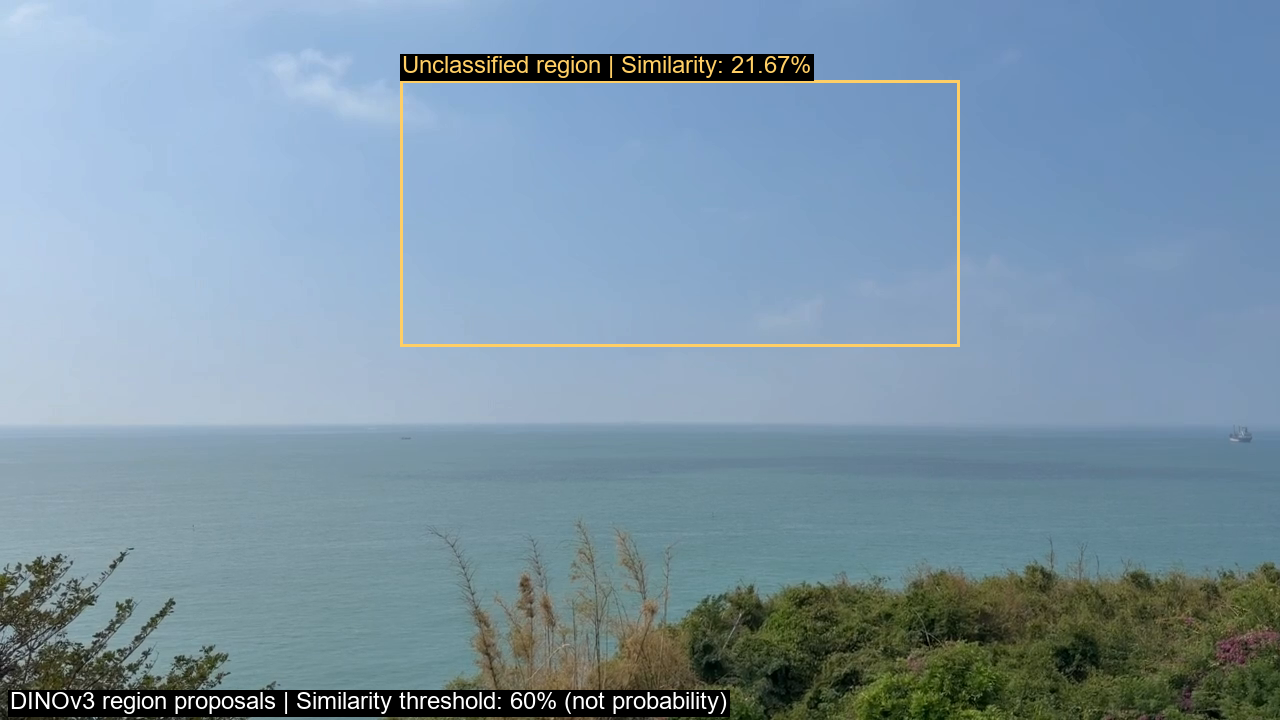
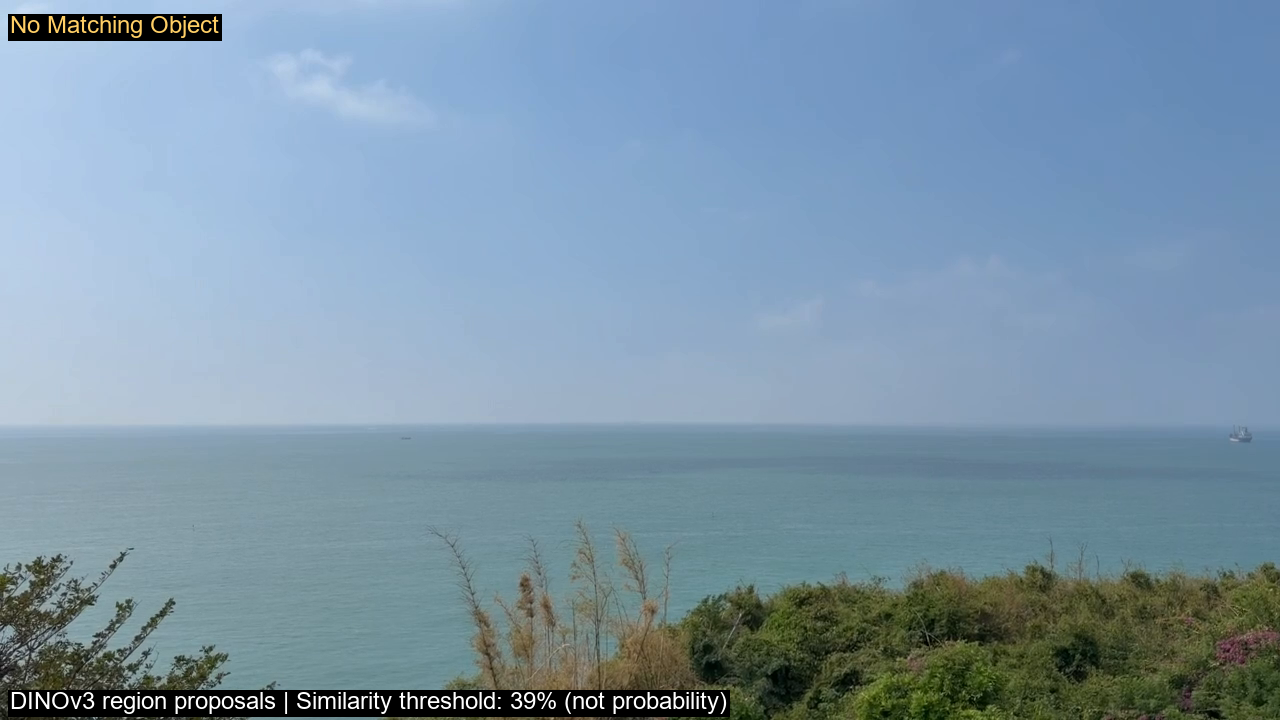
Publish 20-frame DINOv3 similarity review

Changed region(s): [[0.3125, 0.0611, 0.75, 0.1222], [0.3125, 0.4583, 0.75, 0.4889], [0.0, 0.0, 0.1875, 0.0611]]

diff --git a/index.html b/index.html
@@ -9,89 +9,89 @@ body{margin:0;background:var(--bg);color:var(--ink);font:15px/1.6 system-ui,"Mic
 #count{margin-left:auto;color:var(--muted)}.grid{display:grid;grid-template-columns:repeat(2,minmax(0,1fr));gap:22px}article{background:var(--panel);border:1px solid var(--line);border-radius:12px;overflow:hidden}.photo{display:block;background:#080f18}.photo img{display:block;width:100%;height:auto}.body{padding:16px 18px}.row{display:flex;justify-content:space-between;align-items:center;gap:12px;flex-wrap:wrap}h2{font-size:15px;margin:0;font-weight:600}.badge{font-size:11px;color:#eed39a;background:#463b25;padding:3px 8px;border-radius:5px}.badge.accepted{color:#9de4bd;background:#234535}.score{font-size:30px;font-variant-numeric:tabular-nums;color:var(--accent)}small{font-size:15px;margin-left:3px}.caption{font-size:12px;color:var(--muted);margin-left:12px}a{color:#91d0e1}.open{font-size:13px}.details{font-size:12px;color:var(--muted);margin:6px 0 0}footer{color:var(--muted);font-size:12px;margin-top:28px}[hidden]{display:none!important}#empty{padding:40px;text-align:center;color:var(--muted)}
 @media(max-width:760px){main{padding:22px 14px}.grid{grid-template-columns:1fr}.stat{min-width:100px;padding:10px 14px}.toolbar label{flex:1}input{min-width:0;width:100%}#count{width:100%;margin:0}}
 </style></head><body><main><header><div class="eyebrow">DINOv3 / IMAGE REVIEW</div><h1>船舶影像相似度檢視</h1>
-<p>每張影格僅保留分數最高的一個自動區域候選框。分數為實際模型計算的區域餘弦相似度 × 100，並非辨識機率；候選框也可能包含背景。</p></header>
-<section class="stats" aria-label="結果摘要"><div class="stat"><strong>20</strong><span>隨機選取影格</span></div><div class="stat"><strong>60%</strong><span>相似度門檻（含）</span></div><div class="stat"><strong>0 / 20</strong><span>達到目標船候選門檻</span></div></section>
+<p>每張影格只評估最高分候選：達到門檻才顯示框，低於門檻顯示 No Matching Object。下方保留最高候選的實際分數供檢視。相似度並非辨識機率；自動候選框也可能包含背景。</p></header>
+<section class="stats" aria-label="結果摘要"><div class="stat"><strong>20</strong><span>隨機選取影格</span></div><div class="stat"><strong>39%</strong><span>相似度門檻（含）</span></div><div class="stat"><strong>9 / 20</strong><span>達到目標船候選門檻</span></div></section>
 <div class="toolbar"><label>搜尋檔名<input id="search" type="search" placeholder="例如 frame_000445"></label><label>排序<select id="sort"><option value="score">相似度：高 → 低</option><option value="name">檔名順序</option><option value="order">原始抽樣順序</option></select></label><label>顯示<select id="filter"><option value="all">全部影格</option><option value="true">達到門檻</option><option value="false">低於門檻／未偵測</option></select></label><span id="count" role="status" aria-live="polite"></span></div>
-<section class="grid" id="gallery" aria-label="標註影格"><article data-name="frame_000445.png" data-score="0.5185669660568237" data-order="0" data-accepted="false">
-<a class="photo" href="frame_000445.png" target="_blank" rel="noopener" aria-label="放大 frame_000445.png"><img src="frame_000445.png" alt="frame_000445.png：低於門檻 · 未分類區域，相似度 51.86%" loading="lazy" width="1280" height="720"></a>
-<div class="body"><div class="row"><h2>frame_000445.png</h2><span class="badge ">低於門檻 · 未分類區域</span></div>
-<div class="row"><div><span class="score">51.86<small>%</small></span><span class="caption">Similarity</span></div><a class="open" href="frame_000445.png" target="_blank" rel="noopener">開啟原尺寸 ↗</a></div>
-<p class="details">1280 × 720 px · 框座標 [453, 320, 1014, 507]</p></div></article><article data-name="frame_000578.png" data-score="0.48039111495018005" data-order="1" data-accepted="false">
-<a class="photo" href="frame_000578.png" target="_blank" rel="noopener" aria-label="放大 frame_000578.png"><img src="frame_000578.png" alt="frame_000578.png：低於門檻 · 未分類區域，相似度 48.04%" loading="lazy" width="1280" height="720"></a>
-<div class="body"><div class="row"><h2>frame_000578.png</h2><span class="badge ">低於門檻 · 未分類區域</span></div>
-<div class="row"><div><span class="score">48.04<small>%</small></span><span class="caption">Similarity</span></div><a class="open" href="frame_000578.png" target="_blank" rel="noopener">開啟原尺寸 ↗</a></div>
+<section class="grid" id="gallery" aria-label="標註影格"><article data-name="frame_000445.png" data-score="0.5185669660568237" data-order="0" data-accepted="true">
+<a class="photo" href="frame_000445.png?v=4f325bb8f860" target="_blank" rel="noopener" aria-label="放大 frame_000445.png"><img src="frame_000445.png?v=4f325bb8f860" alt="frame_000445.png：目標船候選，相似度 51.86%" loading="lazy" width="1280" height="720"></a>
+<div class="body"><div class="row"><h2>frame_000445.png</h2><span class="badge accepted">目標船候選</span></div>
+<div class="row"><div><span class="score">51.86<small>%</small></span><span class="caption">最高候選相似度</span></div><a class="open" href="frame_000445.png?v=4f325bb8f860" target="_blank" rel="noopener">開啟原尺寸 ↗</a></div>
+<p class="details">1280 × 720 px · 框座標 [453, 320, 1014, 507]</p></div></article><article data-name="frame_000578.png" data-score="0.48039111495018005" data-order="1" data-accepted="true">
+<a class="photo" href="frame_000578.png?v=b63f1000d5e1" target="_blank" rel="noopener" aria-label="放大 frame_000578.png"><img src="frame_000578.png?v=b63f1000d5e1" alt="frame_000578.png：目標船候選，相似度 48.04%" loading="lazy" width="1280" height="720"></a>
+<div class="body"><div class="row"><h2>frame_000578.png</h2><span class="badge accepted">目標船候選</span></div>
+<div class="row"><div><span class="score">48.04<small>%</small></span><span class="caption">最高候選相似度</span></div><a class="open" href="frame_000578.png?v=b63f1000d5e1" target="_blank" rel="noopener">開啟原尺寸 ↗</a></div>
 <p class="details">1280 × 720 px · 框座標 [240, 373, 774, 534]</p></div></article><article data-name="frame_000280.png" data-score="0.2985789179801941" data-order="2" data-accepted="false">
-<a class="photo" href="frame_000280.png" target="_blank" rel="noopener" aria-label="放大 frame_000280.png"><img src="frame_000280.png" alt="frame_000280.png：低於門檻 · 未分類區域，相似度 29.86%" loading="lazy" width="1280" height="720"></a>
-<div class="body"><div class="row"><h2>frame_000280.png</h2><span class="badge ">低於門檻 · 未分類區域</span></div>
-<div class="row"><div><span class="score">29.86<small>%</small></span><span class="caption">Similarity</span></div><a class="open" href="frame_000280.png" target="_blank" rel="noopener">開啟原尺寸 ↗</a></div>
-<p class="details">1280 × 720 px · 框座標 [320, 186, 987, 454]</p></div></article><article data-name="frame_000362.png" data-score="0.34688276052474976" data-order="3" data-accepted="false">
-<a class="photo" href="frame_000362.png" target="_blank" rel="noopener" aria-label="放大 frame_000362.png"><img src="frame_000362.png" alt="frame_000362.png：低於門檻 · 未分類區域，相似度 34.69%" loading="lazy" width="1280" height="720"></a>
-<div class="body"><div class="row"><h2>frame_000362.png</h2><span class="badge ">低於門檻 · 未分類區域</span></div>
-<div class="row"><div><span class="score">34.69<small>%</small></span><span class="caption">Similarity</span></div><a class="open" href="frame_000362.png" target="_blank" rel="noopener">開啟原尺寸 ↗</a></div>
-<p class="details">1280 × 720 px · 框座標 [533, 106, 960, 400]</p></div></article><article data-name="frame_000477.png" data-score="0.5661545395851135" data-order="4" data-accepted="false">
-<a class="photo" href="frame_000477.png" target="_blank" rel="noopener" aria-label="放大 frame_000477.png"><img src="frame_000477.png" alt="frame_000477.png：低於門檻 · 未分類區域，相似度 56.62%" loading="lazy" width="1280" height="720"></a>
-<div class="body"><div class="row"><h2>frame_000477.png</h2><span class="badge ">低於門檻 · 未分類區域</span></div>
-<div class="row"><div><span class="score">56.62<small>%</small></span><span class="caption">Similarity</span></div><a class="open" href="frame_000477.png" target="_blank" rel="noopener">開啟原尺寸 ↗</a></div>
+<a class="photo" href="frame_000280.png?v=1c834a52ec70" target="_blank" rel="noopener" aria-label="放大 frame_000280.png"><img src="frame_000280.png?v=1c834a52ec70" alt="frame_000280.png：No Matching Object（無符合目標），相似度 29.86%" loading="lazy" width="1280" height="720"></a>
+<div class="body"><div class="row"><h2>frame_000280.png</h2><span class="badge ">No Matching Object（無符合目標）</span></div>
+<div class="row"><div><span class="score">29.86<small>%</small></span><span class="caption">最高候選相似度</span></div><a class="open" href="frame_000280.png?v=1c834a52ec70" target="_blank" rel="noopener">開啟原尺寸 ↗</a></div>
+<p class="details">1280 × 720 px · 框座標 —（未顯示框）</p></div></article><article data-name="frame_000362.png" data-score="0.34688276052474976" data-order="3" data-accepted="false">
+<a class="photo" href="frame_000362.png?v=288e2eca2f44" target="_blank" rel="noopener" aria-label="放大 frame_000362.png"><img src="frame_000362.png?v=288e2eca2f44" alt="frame_000362.png：No Matching Object（無符合目標），相似度 34.69%" loading="lazy" width="1280" height="720"></a>
+<div class="body"><div class="row"><h2>frame_000362.png</h2><span class="badge ">No Matching Object（無符合目標）</span></div>
+<div class="row"><div><span class="score">34.69<small>%</small></span><span class="caption">最高候選相似度</span></div><a class="open" href="frame_000362.png?v=288e2eca2f44" target="_blank" rel="noopener">開啟原尺寸 ↗</a></div>
+<p class="details">1280 × 720 px · 框座標 —（未顯示框）</p></div></article><article data-name="frame_000477.png" data-score="0.5661545395851135" data-order="4" data-accepted="true">
+<a class="photo" href="frame_000477.png?v=3d27ce9752a2" target="_blank" rel="noopener" aria-label="放大 frame_000477.png"><img src="frame_000477.png?v=3d27ce9752a2" alt="frame_000477.png：目標船候選，相似度 56.62%" loading="lazy" width="1280" height="720"></a>
+<div class="body"><div class="row"><h2>frame_000477.png</h2><span class="badge accepted">目標船候選</span></div>
+<div class="row"><div><span class="score">56.62<small>%</small></span><span class="caption">最高候選相似度</span></div><a class="open" href="frame_000477.png?v=3d27ce9752a2" target="_blank" rel="noopener">開啟原尺寸 ↗</a></div>
 <p class="details">1280 × 720 px · 框座標 [426, 320, 987, 507]</p></div></article><article data-name="frame_000193.png" data-score="0.30621254444122314" data-order="5" data-accepted="false">
-<a class="photo" href="frame_000193.png" target="_blank" rel="noopener" aria-label="放大 frame_000193.png"><img src="frame_000193.png" alt="frame_000193.png：低於門檻 · 未分類區域，相似度 30.62%" loading="lazy" width="1280" height="720"></a>
-<div class="body"><div class="row"><h2>frame_000193.png</h2><span class="badge ">低於門檻 · 未分類區域</span></div>
-<div class="row"><div><span class="score">30.62<small>%</small></span><span class="caption">Similarity</span></div><a class="open" href="frame_000193.png" target="_blank" rel="noopener">開啟原尺寸 ↗</a></div>
-<p class="details">1280 × 720 px · 框座標 [293, 293, 854, 507]</p></div></article><article data-name="frame_000014.png" data-score="0.22839638590812683" data-order="6" data-accepted="false">
-<a class="photo" href="frame_000014.png" target="_blank" rel="noopener" aria-label="放大 frame_000014.png"><img src="frame_000014.png" alt="frame_000014.png：低於門檻 · 未分類區域，相似度 22.84%" loading="lazy" width="1280" height="720"></a>
-<div class="body"><div class="row"><h2>frame_000014.png</h2><span class="badge ">低於門檻 · 未分類區域</span></div>
-<div class="row"><div><span class="score">22.84<small>%</small></span><span class="caption">Similarity</span></div><a class="open" href="frame_000014.png" target="_blank" rel="noopener">開啟原尺寸 ↗</a></div>
-<p class="details">1280 × 720 px · 框座標 [400, 80, 934, 347]</p></div></article><article data-name="frame_000044.png" data-score="0.21666038036346436" data-order="7" data-accepted="false">
-<a class="photo" href="frame_000044.png" target="_blank" rel="noopener" aria-label="放大 frame_000044.png"><img src="frame_000044.png" alt="frame_000044.png：低於門檻 · 未分類區域，相似度 21.67%" loading="lazy" width="1280" height="720"></a>
-<div class="body"><div class="row"><h2>frame_000044.png</h2><span class="badge ">低於門檻 · 未分類區域</span></div>
-<div class="row"><div><span class="score">21.67<small>%</small></span><span class="caption">Similarity</span></div><a class="open" href="frame_000044.png" target="_blank" rel="noopener">開啟原尺寸 ↗</a></div>
-<p class="details">1280 × 720 px · 框座標 [400, 80, 960, 347]</p></div></article><article data-name="frame_000290.png" data-score="0.28067025542259216" data-order="8" data-accepted="false">
-<a class="photo" href="frame_000290.png" target="_blank" rel="noopener" aria-label="放大 frame_000290.png"><img src="frame_000290.png" alt="frame_000290.png：低於門檻 · 未分類區域，相似度 28.07%" loading="lazy" width="1280" height="720"></a>
-<div class="body"><div class="row"><h2>frame_000290.png</h2><span class="badge ">低於門檻 · 未分類區域</span></div>
-<div class="row"><div><span class="score">28.07<small>%</small></span><span class="caption">Similarity</span></div><a class="open" href="frame_000290.png" target="_blank" rel="noopener">開啟原尺寸 ↗</a></div>
-<p class="details">1280 × 720 px · 框座標 [453, 186, 1014, 347]</p></div></article><article data-name="frame_000231.png" data-score="0.49931079149246216" data-order="9" data-accepted="false">
-<a class="photo" href="frame_000231.png" target="_blank" rel="noopener" aria-label="放大 frame_000231.png"><img src="frame_000231.png" alt="frame_000231.png：低於門檻 · 未分類區域，相似度 49.93%" loading="lazy" width="1280" height="720"></a>
-<div class="body"><div class="row"><h2>frame_000231.png</h2><span class="badge ">低於門檻 · 未分類區域</span></div>
-<div class="row"><div><span class="score">49.93<small>%</small></span><span class="caption">Similarity</span></div><a class="open" href="frame_000231.png" target="_blank" rel="noopener">開啟原尺寸 ↗</a></div>
+<a class="photo" href="frame_000193.png?v=4c77185d99d2" target="_blank" rel="noopener" aria-label="放大 frame_000193.png"><img src="frame_000193.png?v=4c77185d99d2" alt="frame_000193.png：No Matching Object（無符合目標），相似度 30.62%" loading="lazy" width="1280" height="720"></a>
+<div class="body"><div class="row"><h2>frame_000193.png</h2><span class="badge ">No Matching Object（無符合目標）</span></div>
+<div class="row"><div><span class="score">30.62<small>%</small></span><span class="caption">最高候選相似度</span></div><a class="open" href="frame_000193.png?v=4c77185d99d2" target="_blank" rel="noopener">開啟原尺寸 ↗</a></div>
+<p class="details">1280 × 720 px · 框座標 —（未顯示框）</p></div></article><article data-name="frame_000014.png" data-score="0.22839638590812683" data-order="6" data-accepted="false">
+<a class="photo" href="frame_000014.png?v=cbd5854fa77f" target="_blank" rel="noopener" aria-label="放大 frame_000014.png"><img src="frame_000014.png?v=cbd5854fa77f" alt="frame_000014.png：No Matching Object（無符合目標），相似度 22.84%" loading="lazy" width="1280" height="720"></a>
+<div class="body"><div class="row"><h2>frame_000014.png</h2><span class="badge ">No Matching Object（無符合目標）</span></div>
+<div class="row"><div><span class="score">22.84<small>%</small></span><span class="caption">最高候選相似度</span></div><a class="open" href="frame_000014.png?v=cbd5854fa77f" target="_blank" rel="noopener">開啟原尺寸 ↗</a></div>
+<p class="details">1280 × 720 px · 框座標 —（未顯示框）</p></div></article><article data-name="frame_000044.png" data-score="0.21666038036346436" data-order="7" data-accepted="false">
+<a class="photo" href="frame_000044.png?v=a2d63955e45f" target="_blank" rel="noopener" aria-label="放大 frame_000044.png"><img src="frame_000044.png?v=a2d63955e45f" alt="frame_000044.png：No Matching Object（無符合目標），相似度 21.67%" loading="lazy" width="1280" height="720"></a>
+<div class="body"><div class="row"><h2>frame_000044.png</h2><span class="badge ">No Matching Object（無符合目標）</span></div>
+<div class="row"><div><span class="score">21.67<small>%</small></span><span class="caption">最高候選相似度</span></div><a class="open" href="frame_000044.png?v=a2d63955e45f" target="_blank" rel="noopener">開啟原尺寸 ↗</a></div>
+<p class="details">1280 × 720 px · 框座標 —（未顯示框）</p></div></article><article data-name="frame_000290.png" data-score="0.28067025542259216" data-order="8" data-accepted="false">
+<a class="photo" href="frame_000290.png?v=04f59760354d" target="_blank" rel="noopener" aria-label="放大 frame_000290.png"><img src="frame_000290.png?v=04f59760354d" alt="frame_000290.png：No Matching Object（無符合目標），相似度 28.07%" loading="lazy" width="1280" height="720"></a>
+<div class="body"><div class="row"><h2>frame_000290.png</h2><span class="badge ">No Matching Object（無符合目標）</span></div>
+<div class="row"><div><span class="score">28.07<small>%</small></span><span class="caption">最高候選相似度</span></div><a class="open" href="frame_000290.png?v=04f59760354d" target="_blank" rel="noopener">開啟原尺寸 ↗</a></div>
+<p class="details">1280 × 720 px · 框座標 —（未顯示框）</p></div></article><article data-name="frame_000231.png" data-score="0.49931079149246216" data-order="9" data-accepted="true">
+<a class="photo" href="frame_000231.png?v=2c96e7477212" target="_blank" rel="noopener" aria-label="放大 frame_000231.png"><img src="frame_000231.png?v=2c96e7477212" alt="frame_000231.png：目標船候選，相似度 49.93%" loading="lazy" width="1280" height="720"></a>
+<div class="body"><div class="row"><h2>frame_000231.png</h2><span class="badge accepted">目標船候選</span></div>
+<div class="row"><div><span class="score">49.93<small>%</small></span><span class="caption">最高候選相似度</span></div><a class="open" href="frame_000231.png?v=2c96e7477212" target="_blank" rel="noopener">開啟原尺寸 ↗</a></div>
 <p class="details">1280 × 720 px · 框座標 [426, 346, 1014, 534]</p></div></article><article data-name="frame_000266.png" data-score="0.3491246700286865" data-order="10" data-accepted="false">
-<a class="photo" href="frame_000266.png" target="_blank" rel="noopener" aria-label="放大 frame_000266.png"><img src="frame_000266.png" alt="frame_000266.png：低於門檻 · 未分類區域，相似度 34.91%" loading="lazy" width="1280" height="720"></a>
-<div class="body"><div class="row"><h2>frame_000266.png</h2><span class="badge ">低於門檻 · 未分類區域</span></div>
-<div class="row"><div><span class="score">34.91<small>%</small></span><span class="caption">Similarity</span></div><a class="open" href="frame_000266.png" target="_blank" rel="noopener">開啟原尺寸 ↗</a></div>
-<p class="details">1280 × 720 px · 框座標 [373, 213, 934, 454]</p></div></article><article data-name="frame_000353.png" data-score="0.5123348236083984" data-order="11" data-accepted="false">
-<a class="photo" href="frame_000353.png" target="_blank" rel="noopener" aria-label="放大 frame_000353.png"><img src="frame_000353.png" alt="frame_000353.png：低於門檻 · 未分類區域，相似度 51.23%" loading="lazy" width="1280" height="720"></a>
-<div class="body"><div class="row"><h2>frame_000353.png</h2><span class="badge ">低於門檻 · 未分類區域</span></div>
-<div class="row"><div><span class="score">51.23<small>%</small></span><span class="caption">Similarity</span></div><a class="open" href="frame_000353.png" target="_blank" rel="noopener">開啟原尺寸 ↗</a></div>
-<p class="details">1280 × 720 px · 框座標 [320, 426, 854, 614]</p></div></article><article data-name="frame_000347.png" data-score="0.40359431505203247" data-order="12" data-accepted="false">
-<a class="photo" href="frame_000347.png" target="_blank" rel="noopener" aria-label="放大 frame_000347.png"><img src="frame_000347.png" alt="frame_000347.png：低於門檻 · 未分類區域，相似度 40.36%" loading="lazy" width="1280" height="720"></a>
-<div class="body"><div class="row"><h2>frame_000347.png</h2><span class="badge ">低於門檻 · 未分類區域</span></div>
-<div class="row"><div><span class="score">40.36<small>%</small></span><span class="caption">Similarity</span></div><a class="open" href="frame_000347.png" target="_blank" rel="noopener">開啟原尺寸 ↗</a></div>
-<p class="details">1280 × 720 px · 框座標 [346, 453, 880, 640]</p></div></article><article data-name="frame_000431.png" data-score="0.5023213028907776" data-order="13" data-accepted="false">
-<a class="photo" href="frame_000431.png" target="_blank" rel="noopener" aria-label="放大 frame_000431.png"><img src="frame_000431.png" alt="frame_000431.png：低於門檻 · 未分類區域，相似度 50.23%" loading="lazy" width="1280" height="720"></a>
-<div class="body"><div class="row"><h2>frame_000431.png</h2><span class="badge ">低於門檻 · 未分類區域</span></div>
-<div class="row"><div><span class="score">50.23<small>%</small></span><span class="caption">Similarity</span></div><a class="open" href="frame_000431.png" target="_blank" rel="noopener">開啟原尺寸 ↗</a></div>
+<a class="photo" href="frame_000266.png?v=d21132f5f4db" target="_blank" rel="noopener" aria-label="放大 frame_000266.png"><img src="frame_000266.png?v=d21132f5f4db" alt="frame_000266.png：No Matching Object（無符合目標），相似度 34.91%" loading="lazy" width="1280" height="720"></a>
+<div class="body"><div class="row"><h2>frame_000266.png</h2><span class="badge ">No Matching Object（無符合目標）</span></div>
+<div class="row"><div><span class="score">34.91<small>%</small></span><span class="caption">最高候選相似度</span></div><a class="open" href="frame_000266.png?v=d21132f5f4db" target="_blank" rel="noopener">開啟原尺寸 ↗</a></div>
+<p class="details">1280 × 720 px · 框座標 —（未顯示框）</p></div></article><article data-name="frame_000353.png" data-score="0.5123348236083984" data-order="11" data-accepted="true">
+<a class="photo" href="frame_000353.png?v=cc7232e76c15" target="_blank" rel="noopener" aria-label="放大 frame_000353.png"><img src="frame_000353.png?v=cc7232e76c15" alt="frame_000353.png：目標船候選，相似度 51.23%" loading="lazy" width="1280" height="720"></a>
+<div class="body"><div class="row"><h2>frame_000353.png</h2><span class="badge accepted">目標船候選</span></div>
+<div class="row"><div><span class="score">51.23<small>%</small></span><span class="caption">最高候選相似度</span></div><a class="open" href="frame_000353.png?v=cc7232e76c15" target="_blank" rel="noopener">開啟原尺寸 ↗</a></div>
+<p class="details">1280 × 720 px · 框座標 [320, 426, 854, 614]</p></div></article><article data-name="frame_000347.png" data-score="0.40359431505203247" data-order="12" data-accepted="true">
+<a class="photo" href="frame_000347.png?v=16820c583862" target="_blank" rel="noopener" aria-label="放大 frame_000347.png"><img src="frame_000347.png?v=16820c583862" alt="frame_000347.png：目標船候選，相似度 40.36%" loading="lazy" width="1280" height="720"></a>
+<div class="body"><div class="row"><h2>frame_000347.png</h2><span class="badge accepted">目標船候選</span></div>
+<div class="row"><div><span class="score">40.36<small>%</small></span><span class="caption">最高候選相似度</span></div><a class="open" href="frame_000347.png?v=16820c583862" target="_blank" rel="noopener">開啟原尺寸 ↗</a></div>
+<p class="details">1280 × 720 px · 框座標 [346, 453, 880, 640]</p></div></article><article data-name="frame_000431.png" data-score="0.5023213028907776" data-order="13" data-accepted="true">
+<a class="photo" href="frame_000431.png?v=96290a0a9fe4" target="_blank" rel="noopener" aria-label="放大 frame_000431.png"><img src="frame_000431.png?v=96290a0a9fe4" alt="frame_000431.png：目標船候選，相似度 50.23%" loading="lazy" width="1280" height="720"></a>
+<div class="body"><div class="row"><h2>frame_000431.png</h2><span class="badge accepted">目標船候選</span></div>
+<div class="row"><div><span class="score">50.23<small>%</small></span><span class="caption">最高候選相似度</span></div><a class="open" href="frame_000431.png?v=96290a0a9fe4" target="_blank" rel="noopener">開啟原尺寸 ↗</a></div>
 <p class="details">1280 × 720 px · 框座標 [400, 320, 960, 534]</p></div></article><article data-name="frame_000256.png" data-score="0.3176206350326538" data-order="14" data-accepted="false">
-<a class="photo" href="frame_000256.png" target="_blank" rel="noopener" aria-label="放大 frame_000256.png"><img src="frame_000256.png" alt="frame_000256.png：低於門檻 · 未分類區域，相似度 31.76%" loading="lazy" width="1280" height="720"></a>
-<div class="body"><div class="row"><h2>frame_000256.png</h2><span class="badge ">低於門檻 · 未分類區域</span></div>
-<div class="row"><div><span class="score">31.76<small>%</small></span><span class="caption">Similarity</span></div><a class="open" href="frame_000256.png" target="_blank" rel="noopener">開啟原尺寸 ↗</a></div>
-<p class="details">1280 × 720 px · 框座標 [480, 213, 1014, 454]</p></div></article><article data-name="frame_000073.png" data-score="0.2999020516872406" data-order="15" data-accepted="false">
-<a class="photo" href="frame_000073.png" target="_blank" rel="noopener" aria-label="放大 frame_000073.png"><img src="frame_000073.png" alt="frame_000073.png：低於門檻 · 未分類區域，相似度 29.99%" loading="lazy" width="1280" height="720"></a>
-<div class="body"><div class="row"><h2>frame_000073.png</h2><span class="badge ">低於門檻 · 未分類區域</span></div>
-<div class="row"><div><span class="score">29.99<small>%</small></span><span class="caption">Similarity</span></div><a class="open" href="frame_000073.png" target="_blank" rel="noopener">開啟原尺寸 ↗</a></div>
-<p class="details">1280 × 720 px · 框座標 [160, 133, 880, 347]</p></div></article><article data-name="frame_000307.png" data-score="0.3752766251564026" data-order="16" data-accepted="false">
-<a class="photo" href="frame_000307.png" target="_blank" rel="noopener" aria-label="放大 frame_000307.png"><img src="frame_000307.png" alt="frame_000307.png：低於門檻 · 未分類區域，相似度 37.53%" loading="lazy" width="1280" height="720"></a>
-<div class="body"><div class="row"><h2>frame_000307.png</h2><span class="badge ">低於門檻 · 未分類區域</span></div>
-<div class="row"><div><span class="score">37.53<small>%</small></span><span class="caption">Similarity</span></div><a class="open" href="frame_000307.png" target="_blank" rel="noopener">開啟原尺寸 ↗</a></div>
-<p class="details">1280 × 720 px · 框座標 [480, 346, 987, 534]</p></div></article><article data-name="frame_000260.png" data-score="0.3063238859176636" data-order="17" data-accepted="false">
-<a class="photo" href="frame_000260.png" target="_blank" rel="noopener" aria-label="放大 frame_000260.png"><img src="frame_000260.png" alt="frame_000260.png：低於門檻 · 未分類區域，相似度 30.63%" loading="lazy" width="1280" height="720"></a>
-<div class="body"><div class="row"><h2>frame_000260.png</h2><span class="badge ">低於門檻 · 未分類區域</span></div>
-<div class="row"><div><span class="score">30.63<small>%</small></span><span class="caption">Similarity</span></div><a class="open" href="frame_000260.png" target="_blank" rel="noopener">開啟原尺寸 ↗</a></div>
-<p class="details">1280 × 720 px · 框座標 [320, 213, 960, 454]</p></div></article><article data-name="frame_000426.png" data-score="0.3911879062652588" data-order="18" data-accepted="false">
-<a class="photo" href="frame_000426.png" target="_blank" rel="noopener" aria-label="放大 frame_000426.png"><img src="frame_000426.png" alt="frame_000426.png：低於門檻 · 未分類區域，相似度 39.12%" loading="lazy" width="1280" height="720"></a>
-<div class="body"><div class="row"><h2>frame_000426.png</h2><span class="badge ">低於門檻 · 未分類區域</span></div>
-<div class="row"><div><span class="score">39.12<small>%</small></span><span class="caption">Similarity</span></div><a class="open" href="frame_000426.png" target="_blank" rel="noopener">開啟原尺寸 ↗</a></div>
-<p class="details">1280 × 720 px · 框座標 [320, 346, 934, 534]</p></div></article><article data-name="frame_000557.png" data-score="0.5315349102020264" data-order="19" data-accepted="false">
-<a class="photo" href="frame_000557.png" target="_blank" rel="noopener" aria-label="放大 frame_000557.png"><img src="frame_000557.png" alt="frame_000557.png：低於門檻 · 未分類區域，相似度 53.15%" loading="lazy" width="1280" height="720"></a>
-<div class="body"><div class="row"><h2>frame_000557.png</h2><span class="badge ">低於門檻 · 未分類區域</span></div>
-<div class="row"><div><span class="score">53.15<small>%</small></span><span class="caption">Similarity</span></div><a class="open" href="frame_000557.png" target="_blank" rel="noopener">開啟原尺寸 ↗</a></div>
+<a class="photo" href="frame_000256.png?v=e7d725084983" target="_blank" rel="noopener" aria-label="放大 frame_000256.png"><img src="frame_000256.png?v=e7d725084983" alt="frame_000256.png：No Matching Object（無符合目標），相似度 31.76%" loading="lazy" width="1280" height="720"></a>
+<div class="body"><div class="row"><h2>frame_000256.png</h2><span class="badge ">No Matching Object（無符合目標）</span></div>
+<div class="row"><div><span class="score">31.76<small>%</small></span><span class="caption">最高候選相似度</span></div><a class="open" href="frame_000256.png?v=e7d725084983" target="_blank" rel="noopener">開啟原尺寸 ↗</a></div>
+<p class="details">1280 × 720 px · 框座標 —（未顯示框）</p></div></article><article data-name="frame_000073.png" data-score="0.2999020516872406" data-order="15" data-accepted="false">
+<a class="photo" href="frame_000073.png?v=d371a664871d" target="_blank" rel="noopener" aria-label="放大 frame_000073.png"><img src="frame_000073.png?v=d371a664871d" alt="frame_000073.png：No Matching Object（無符合目標），相似度 29.99%" loading="lazy" width="1280" height="720"></a>
+<div class="body"><div class="row"><h2>frame_000073.png</h2><span class="badge ">No Matching Object（無符合目標）</span></div>
+<div class="row"><div><span class="score">29.99<small>%</small></span><span class="caption">最高候選相似度</span></div><a class="open" href="frame_000073.png?v=d371a664871d" target="_blank" rel="noopener">開啟原尺寸 ↗</a></div>
+<p class="details">1280 × 720 px · 框座標 —（未顯示框）</p></div></article><article data-name="frame_000307.png" data-score="0.3752766251564026" data-order="16" data-accepted="false">
+<a class="photo" href="frame_000307.png?v=65603508f559" target="_blank" rel="noopener" aria-label="放大 frame_000307.png"><img src="frame_000307.png?v=65603508f559" alt="frame_000307.png：No Matching Object（無符合目標），相似度 37.53%" loading="lazy" width="1280" height="720"></a>
+<div class="body"><div class="row"><h2>frame_000307.png</h2><span class="badge ">No Matching Object（無符合目標）</span></div>
+<div class="row"><div><span class="score">37.53<small>%</small></span><span class="caption">最高候選相似度</span></div><a class="open" href="frame_000307.png?v=65603508f559" target="_blank" rel="noopener">開啟原尺寸 ↗</a></div>
+<p class="details">1280 × 720 px · 框座標 —（未顯示框）</p></div></article><article data-name="frame_000260.png" data-score="0.3063238859176636" data-order="17" data-accepted="false">
+<a class="photo" href="frame_000260.png?v=e911a9361969" target="_blank" rel="noopener" aria-label="放大 frame_000260.png"><img src="frame_000260.png?v=e911a9361969" alt="frame_000260.png：No Matching Object（無符合目標），相似度 30.63%" loading="lazy" width="1280" height="720"></a>
+<div class="body"><div class="row"><h2>frame_000260.png</h2><span class="badge ">No Matching Object（無符合目標）</span></div>
+<div class="row"><div><span class="score">30.63<small>%</small></span><span class="caption">最高候選相似度</span></div><a class="open" href="frame_000260.png?v=e911a9361969" target="_blank" rel="noopener">開啟原尺寸 ↗</a></div>
+<p class="details">1280 × 720 px · 框座標 —（未顯示框）</p></div></article><article data-name="frame_000426.png" data-score="0.3911879062652588" data-order="18" data-accepted="true">
+<a class="photo" href="frame_000426.png?v=f38c86e32b77" target="_blank" rel="noopener" aria-label="放大 frame_000426.png"><img src="frame_000426.png?v=f38c86e32b77" alt="frame_000426.png：目標船候選，相似度 39.12%" loading="lazy" width="1280" height="720"></a>
+<div class="body"><div class="row"><h2>frame_000426.png</h2><span class="badge accepted">目標船候選</span></div>
+<div class="row"><div><span class="score">39.12<small>%</small></span><span class="caption">最高候選相似度</span></div><a class="open" href="frame_000426.png?v=f38c86e32b77" target="_blank" rel="noopener">開啟原尺寸 ↗</a></div>
+<p class="details">1280 × 720 px · 框座標 [320, 346, 934, 534]</p></div></article><article data-name="frame_000557.png" data-score="0.5315349102020264" data-order="19" data-accepted="true">
+<a class="photo" href="frame_000557.png?v=fc943340bfcc" target="_blank" rel="noopener" aria-label="放大 frame_000557.png"><img src="frame_000557.png?v=fc943340bfcc" alt="frame_000557.png：目標船候選，相似度 53.15%" loading="lazy" width="1280" height="720"></a>
+<div class="body"><div class="row"><h2>frame_000557.png</h2><span class="badge accepted">目標船候選</span></div>
+<div class="row"><div><span class="score">53.15<small>%</small></span><span class="caption">最高候選相似度</span></div><a class="open" href="frame_000557.png?v=fc943340bfcc" target="_blank" rel="noopener">開啟原尺寸 ↗</a></div>
 <p class="details">1280 × 720 px · 框座標 [266, 373, 800, 560]</p></div></article></section><p id="empty" hidden>沒有符合條件的影格。</p>
 <footer>抽樣種子：629399051 · 原始影格未修改 · <a href="results.json" target="_blank" rel="noopener">座標與完整推論紀錄</a><br>本頁展示固定批次的推論結果；影像身分及候選框未經人工驗證。</footer>
 </main><script>
